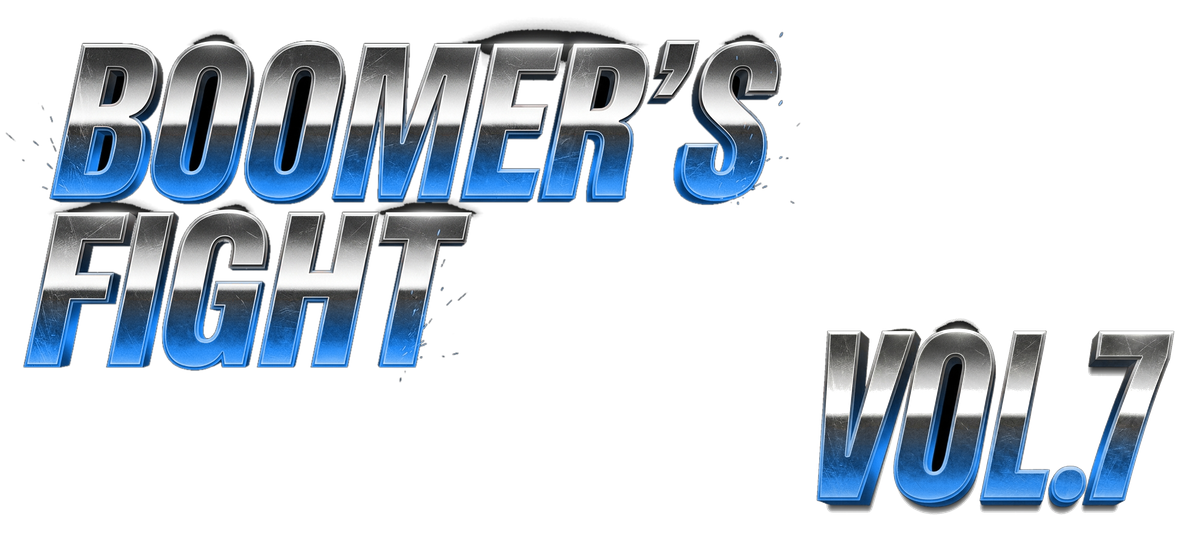
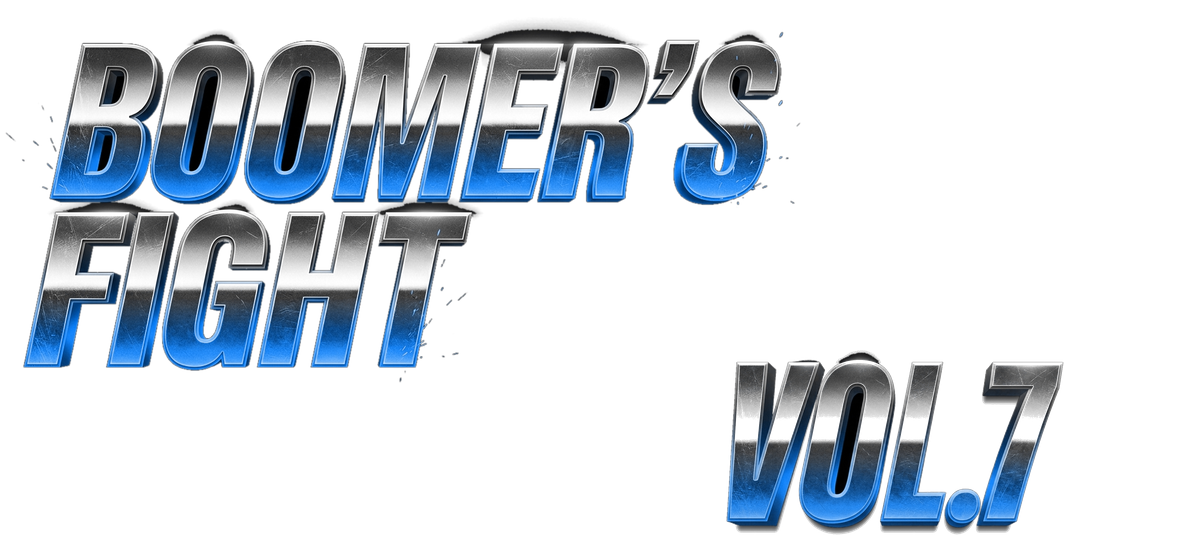
BF7: ロゴの組み方をvol.6と同じにし、画面上下のオレンジのバーを消す
TARO 2026-09-24 の指摘2点。
- VOL.7がタイトルから離れて大きすぎた → vol.6のled-title実測(VOL.6=x726/幅338/下端535)に合わせた
- スマホで画面の上下にオレンジのバーが出ていた(BW5のtheme-color)。/bf7 も /bf6 と同じ黒扱いにした
- 青への置換を「色のついた画素はすべて青」に変更(薄いオレンジの残りが縁に出ていた)

Changed region(s): [[0.5868, 0.5905, 0.9883, 0.9945]]

diff --git a/src/app/layout.tsx b/src/app/layout.tsx
@@ -49,7 +49,9 @@ export default function RootLayout({
               function setup() { try {
                 var p = location.pathname;
                 var isStaff = p.indexOf('/staff/') === 0 || p === '/staff' || p.indexOf('/admin') === 0;
-                var isBf6 = p.indexOf('/bf6') === 0;
+                // vol.6 と vol.7 の告知ページは黒基調。オレンジのバー(BW5のtheme-color)が
+                // 画面の上下に出ると台無しになるので、同じ扱いにする(TARO 2026-09-24)
+                var isBf6 = p.indexOf('/bf6') === 0 || p.indexOf('/bf7') === 0;
                 var isKiosk = p.indexOf('/kiosk') === 0;
                 // 物販ページ(黒×黒Tシャツ等)は黒基調。BW5オレンジのバーが上下に出ると台無しになる
                 var isDark = isBf6 || p.indexOf('/merch') === 0;
